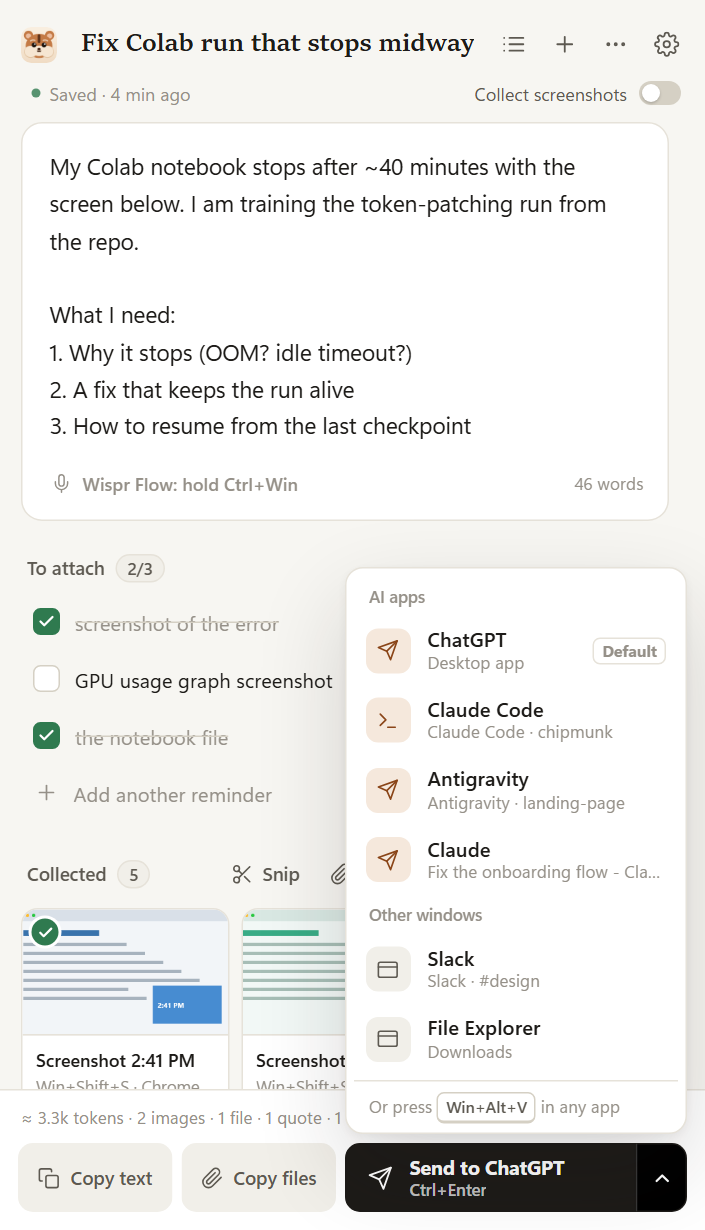
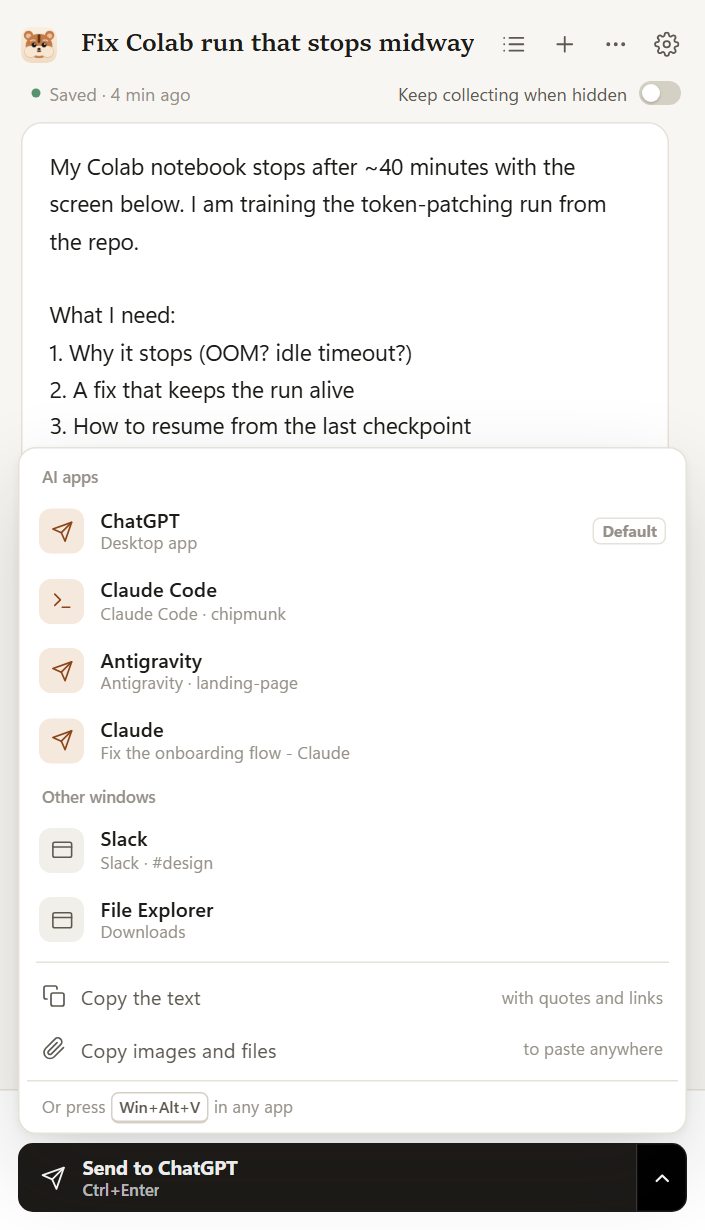
Update README and screenshots for 1.2

diff --git a/README.md b/README.md
@@ -6,7 +6,7 @@
 
 <p align="center">
   <b>Gather context from anywhere. Hand it to any AI in one click.</b><br>
-  Snip, grab and drop from any app or website, reuse pieces of past chats, and send every screenshot,<br>
+  Screenshot, grab and drop from any app or website, reuse pieces of past chats, and send every screenshot,<br>
   file and word to ChatGPT, Claude, Codex, Antigravity, Cursor or Claude Code at once.
 </p>
 
@@ -33,30 +33,33 @@ Your AI is only as good as the context you give it, and giving it context is sti
 
 ## How it works
 
+Three steps: **open it** (`Win+Alt+P`, or click Chip), **throw things in**, **send**.
+
 **1. Collect, from anywhere**
 
 | | |
 |---|---|
-| **Snip** | `Win+Alt+S` snips part of your screen straight into the draft. No desktop full of PNGs. |
-| **Grab** | Highlight text in any app and press `Win+Alt+C`. It's saved as a quote that remembers where it came from. |
-| **Web** | Right-click any selection, image, link or page and choose **Add to Chipmunk**, or screenshot a whole tab. Works in Chrome, Edge and Brave. |
+| **Screenshots** | Take them the normal way (`Win+Shift+S`, Print Screen). While the Chipmunk panel is open, each one lands in the draft by itself. No toggle. To collect while the panel is closed, turn on **Keep collecting when hidden**. |
+| **Grab** | Highlight text in any app and press `Win+Alt+C`. It's saved as a quote that remembers where it came from. Copying from a browser keeps the page link with the quote. |
+| **Paste / drop** | Paste text, images and files into the draft, or drop them on the panel. |
 | **Past chats** | Pick prompts, replies and images from earlier Claude Code, Codex, Antigravity, ChatGPT, Claude or Gemini chats. [More below](#past-chats). |
 | **Chip** | Drop files, images, links or text on the chipmunk at the edge of your screen. |
-| **Collect mode** | Flip it on and every screenshot you take the usual way (Win+Shift+S, Print Screen, Ditto) is caught automatically. |
 
 **2. Shape it**
 
 - Type, or dictate with the app you already use: **Wispr Flow, Superwhisper, Aqua or Windows voice typing (`Win+H`)** all type straight into the draft. Chipmunk spots which one is running and shows its shortcut.
 - The editor **saves on every keystroke**, keeps a version every minute, and deleted drafts go to a trash you can undo.
-- Keep a **To attach** list: write "screenshot of the error" and the next matching capture ticks it off. Chipmunk warns you before you send with something missing.
+- Want a checklist? Open the **...** menu and choose **Add a reminder of what to attach**. Write "screenshot of the error" and the next matching capture ticks it off. Chipmunk warns you before you send with something missing.
 - Reorder attachments, or leave one out without deleting it. You see roughly how many tokens it all costs.
 
 **3. Send, without the back-and-forth**
 
 - **Send** goes to the AI app you used last. The arrow next to it lists every open AI app and window (ChatGPT, Claude, Codex, Antigravity, Cursor, Claude Code in a terminal, a ChatGPT tab in Chrome) so you can pick another one. Chipmunk switches there and pastes every screenshot, file and word, then puts your clipboard back.
+- The arrow menu also has **Copy the text** and **Copy images and files**, for when you want to paste by hand.
 - Already in the app? Press **`Win+Alt+V`** and it all pastes right where you are.
 - In a terminal running Claude Code, files go in as `@"path"` references, which Claude Code reads directly.
 - Or let your coding agent **read the draft itself** ([see below](#use-it-with-coding-agents)).
+- **Fresh draft after you send.** The next time you open the panel you get an empty draft, like a chat box. The one you sent stays in Drafts, and a toast offers **Open it**.
 
 <p align="center">
   <img src="docs/img/panel-light.png" alt="Chipmunk in light mode" width="32%">
@@ -71,7 +74,7 @@ Your AI is only as good as the context you give it, and giving it context is sti
 Chip is the chipmunk that sits at the edge of your screen. It's there to save you trips back to the panel:
 
 - **Click Chip to send.** It lists your open AI apps; pick one and your draft goes in.
-- **It speaks up when it can help.** Switch to ChatGPT with a draft ready and Chip offers to paste it ("5 items ready for ChatGPT. Click me to paste it in"). Take a screenshot and it offers to keep it. One click, or ignore it and the bubble fades.
+- **It speaks up when it can help.** Switch to ChatGPT with a draft ready and Chip offers to paste it ("5 items ready for ChatGPT. Click me to paste it in"). Take a screenshot while the panel is closed and it offers to keep it. One click, or ignore it and the bubble fades.
 - **It tells you what happened** ("Sent 2 images + your text to Claude") instead of popping notifications.
 - **Drop anything on it** to collect it. The badge shows how much is in your draft.
 
@@ -86,16 +89,15 @@ You've already written great prompts and collected the right screenshots in earl
 </p>
 
 - **Claude Code, Codex and Antigravity** are read straight from their files on your PC. Nothing to set up.
-- **ChatGPT, Claude and Gemini**: open a chat in your browser, click the Chipmunk extension and choose **Save this chat**. Every prompt, reply and image is kept. Or import everything at once from the data export ChatGPT or Claude emails you (`.zip`).
+- **ChatGPT (app or website) and Claude:** import the data export `.zip`. In ChatGPT go to Settings → Data controls → Export data. In Claude go to Settings → Privacy → Export data. Then pick the prompts, replies and images you want.
+- **Gemini** shows up in Past chats once you've saved a Gemini chat with the [optional browser extension](#optional-browser-extension).
 - Open a chat, tick the prompts, replies and images you want (from one chat or several), then **Add to draft** or start a **New draft**. Your prompts come back as editable text, replies as quotes, images as attachments. Claude Code prompts also bring back the files they mentioned with `@`.
-
-Using the **ChatGPT desktop app**? It keeps your chats online, not on your PC, so open the same chat on chatgpt.com (they're synced) and save it there. For single screenshots or text from the desktop app, Snip and Grab work in any app.
 
 ## Use cases
 
-- **Report a bug to Claude Code, Codex or Cursor.** Snip the broken screen, grab the error from the console, drop in the CSS file and say what you expected. Click Send and pick the agent.
+- **Report a bug to Claude Code, Codex or Cursor.** Screenshot the broken screen, grab the error from the console, drop in the CSS file and say what you expected. Click Send and pick the agent.
 - **Take a conversation to another AI.** Pull your best prompt and the screenshots from a ChatGPT chat, add Claude's answer from another chat, and send it all to Antigravity.
-- **Research with ChatGPT or Gemini.** Right-click the paragraphs that matter on three sites. Each quote keeps its source link, so the AI can cite it.
+- **Research with ChatGPT or Gemini.** Copy the paragraphs that matter from three sites. Each quote keeps its source link, so the AI can cite it.
 - **Design feedback.** Collect screenshots of the current UI and the reference you love, then dictate what should change.
 - **Write long prompts without fear.** Your draft lives on disk, not in a fragile chat box.
 
@@ -125,12 +127,6 @@ Then just say **"use my Chipmunk draft"**. **Settings → AI agents** shows thes
 2. Run **`Chipmunk.exe`**. Windows may say it "protected your PC", because the app isn't code-signed yet. Click **More info → Run anyway**.
 3. Chip appears in the corner and a short welcome shows the shortcuts. That's it.
 
-**Browser extension (optional, 30 seconds)**
-
-1. Open `chrome://extensions` (or `edge://extensions`) and turn on **Developer mode**.
-2. Click **Load unpacked** and pick the `extension` folder next to `Chipmunk.exe`.
-3. Pin Chipmunk to your toolbar. It connects to the app by itself.
-
 Needs Windows 10 or 11 with the Microsoft Edge WebView2 Runtime, which is built into Windows 11.
 
 ## Shortcuts
@@ -142,15 +138,28 @@ Needs Windows 10 or 11 with the Microsoft Edge WebView2 Runtime, which is built 
 | `Win+Alt+C` | Grab the selection from any app |
 | `Win+Alt+V` | Send the draft to the app you're in |
 | `Ctrl+Enter` / `Ctrl+Shift+H` | In the panel: send / open Past chats |
-| `Alt+Shift+A` / `Alt+Shift+S` | In the browser: add the selection / screenshot the tab |
+| `Alt+Shift+A` / `Alt+Shift+S` | In the browser (with the extension): add the selection / screenshot the tab |
 
 All shortcuts use `Win+Alt`, so they never clash with AltGr characters on international keyboards. If one is taken, Chipmunk picks a free alternative and tells you. Change any of them in **Settings**.
+
+## Optional: browser extension
+
+You don't need it. Copying from a browser already keeps the page link with the quote. The extension adds two things:
+
+- Right-click any selection, image, link or page and choose **Add to Chipmunk**.
+- **Save this chat** on ChatGPT, Claude and Gemini, one chat at a time. Handy for Gemini, and for single chats without a full export.
+
+To install it (Chrome, Edge, Brave):
+
+1. Open `chrome://extensions` (or `edge://extensions`) and turn on **Developer mode**.
+2. Click **Load unpacked** and pick the `extension` folder next to `Chipmunk.exe`.
+3. Pin Chipmunk to your toolbar. It connects to the app by itself.
 
 ## Privacy
 
 - Everything stays on your PC. Chipmunk makes no network requests and has no account, telemetry or cloud.
 - Drafts are plain folders in `Documents\Chipmunk`: `prompt.md`, your files and a `draft.json`. You own them, and OneDrive or Dropbox can back them up.
-- Past chats reads Claude Code, Codex and Antigravity history from their files on your PC and never changes them. Browser chats are saved only when you click **Save this chat**.
+- Past chats reads Claude Code, Codex and Antigravity history from their files on your PC and never changes them. ChatGPT and Claude chats come in only when you import an export. Browser chats are saved only when you click **Save this chat**.
 - Clipboard entries that apps mark as private, such as passwords from a password manager, are never collected.
 - Chipmunk's own clipboard use is hidden from Ditto and Windows clipboard history.
 - The browser extension only talks to the Chipmunk app on your PC.
@@ -159,7 +168,7 @@ All shortcuts use `Win+Alt`, so they never clash with AltGr characters on intern
 
 **Does it work with Wispr Flow?** Yes. Click in the prompt and use Wispr Flow as you always do; it types into the draft. The same goes for Superwhisper, Aqua and Windows voice typing.
 
-**Can I get chats from the ChatGPT desktop app?** The app stores chats in your OpenAI account, not on your PC. Open the chat on chatgpt.com and click **Save this chat**, or import your ChatGPT data export to bring in every chat at once.
+**Can I get chats from the ChatGPT desktop app?** The app stores chats in your OpenAI account, not on your PC. Import your ChatGPT data export (Settings → Data controls → Export data) to bring in every chat at once. To save one chat at a time, open it on chatgpt.com and use **Save this chat** from the optional extension.
 
 **Can I reuse just one prompt and a few images from an old chat?** Yes, that's what Past chats is for. Tick exactly what you want, even from different chats, and add it to your draft.
 
@@ -180,7 +189,7 @@ The app ends up in `dist\`. To work on the interface in a normal browser with a 
 ```
 src\         C# app: window, tray, shortcuts, clipboard, paste engine, storage, Chip, past chats, MCP server, browser bridge
 ui\          the panel (HTML, CSS, JavaScript) rendered by WebView2
-extension\   the Chrome / Edge / Brave extension
+extension\   the Chrome / Edge / Brave extension (optional)
 docs\        images for this README
 ```
 
